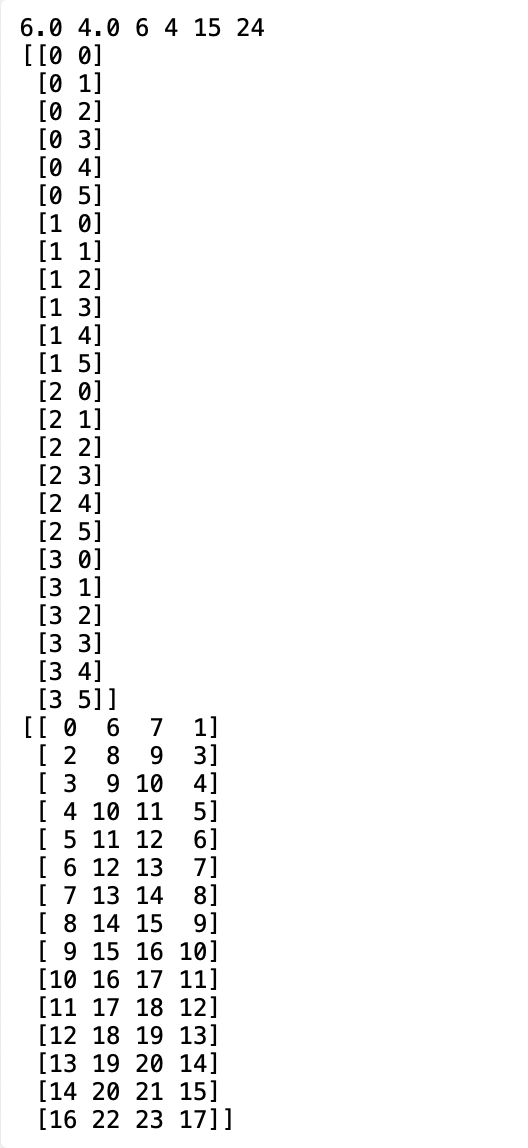
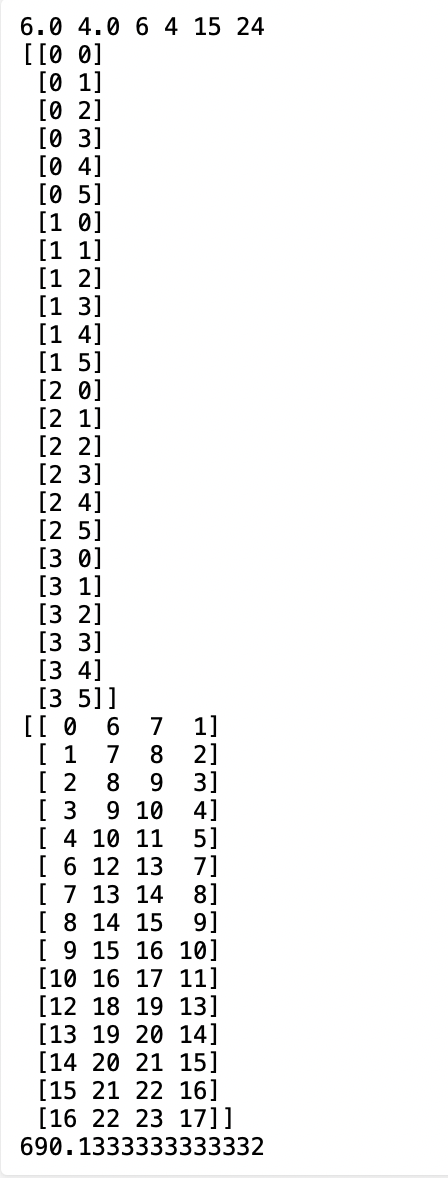
Added quadrature function

Changed region(s): [[0.0312, 0.0, 0.5938, 1.0], [0.375, 0.0, 0.5, 0.0305], [0.5312, 0.0, 0.5938, 0.0305]]

diff --git a/FEM.py b/FEM.py
@@ -14,6 +14,7 @@ class Mocks(object):
         delta_x = globalObj.Height/globalObj.numH
         delta_y = globalObj.Width/globalObj.numW
         
+        
         for i in range(globalObj.numW):
             x = i * delta_x
             
@@ -33,7 +34,7 @@ class Elements(object):
         self.height = height
         self.ID     = np.zeros((height, self.width), dtype=int)
         
-        j = 0
+        j = 0; r = numH - 1
         
         for i in range(nElems):
             self.ID[i, 0] = j
@@ -42,8 +43,9 @@ class Elements(object):
             self.ID[i, 3] = self.ID[i, 0] + 1
             j += 1
             
-            if not (i % (self.height-2)):
+            if not (j % r):
                  j += 1
+                 r += j
 
 
 
@@ -75,4 +77,38 @@ class GlobalData(object):
         
         self.nElems = int((self.numH - 1)*(self.numW - 1))
         self.nNodes = int(self.numH * self.numW)
+
+
+
+
+def quadratureCalc(fun, x1, x2, rank):
+    period = 1./(1 -(-1))    # normalization
+    det_J  = np.abs(x1 - x2) * period
+    
+    
+    if rank == 2:
+        Node1 = (1 + (1/np.sqrt(3))) * period
+        Node2 = (1 - (1/np.sqrt(3))) * period
+        
+        pc1 = Node1*x1 + Node2*x2
+        pc2 = Node1*x2 + Node2*x1
+        
+        return (fun(pc1) *1 + fun(pc2) *1)* det_J
+    
+    
+    if rank == 3:
+        Node1 = (1 + np.sqrt(3/5)) * period
+        Node2 = period
+        Node3 = (1 - np.sqrt(3/5)) * period
+        
+        pc1 = Node1*x1 + Node3*x2
+        pc2 = Node2 * (x1 + x2)
+        pc3 = Node1*x2 + Node3*x1
+        
+        return (fun(pc1) *(5/9) + fun(pc2) *(8/9) + fun(pc3) *(5/9))* det_J
+    
+    
+    else:
+        
+        return "Cannot calculate this rank."
     

diff --git a/main.py b/main.py
@@ -1,5 +1,4 @@
-import numpy as np
-from FEM import Mocks, Elements, GlobalData
+from FEM import *
 
 
 
@@ -20,3 +19,6 @@ if __name__ == "__main__":
     elemenets = Elements(global_data.nElems, global_data.nElems, global_data.numH)
     
     print(elemenets.ID)
+    
+    
+    print(quadratureCalc(lambda x: 2* x**2 + 0.1* x + 3, 2.0, 10.0, 3))
